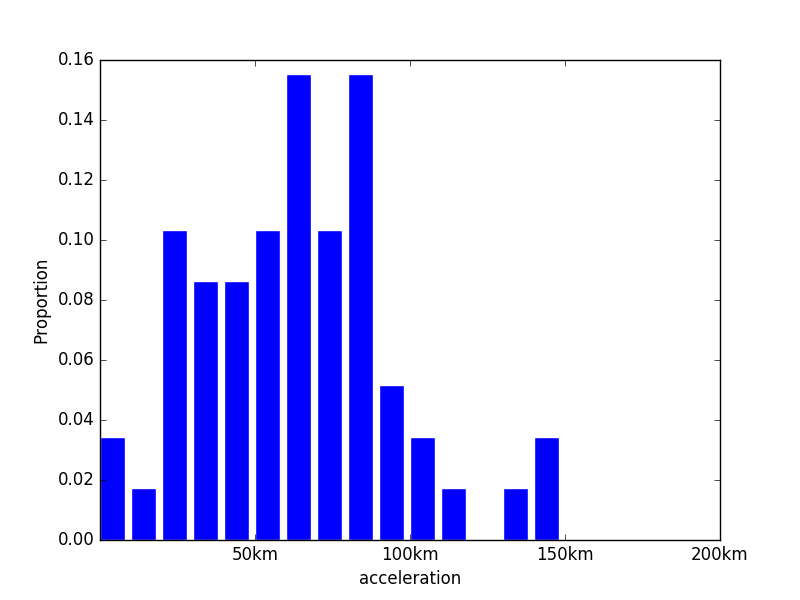
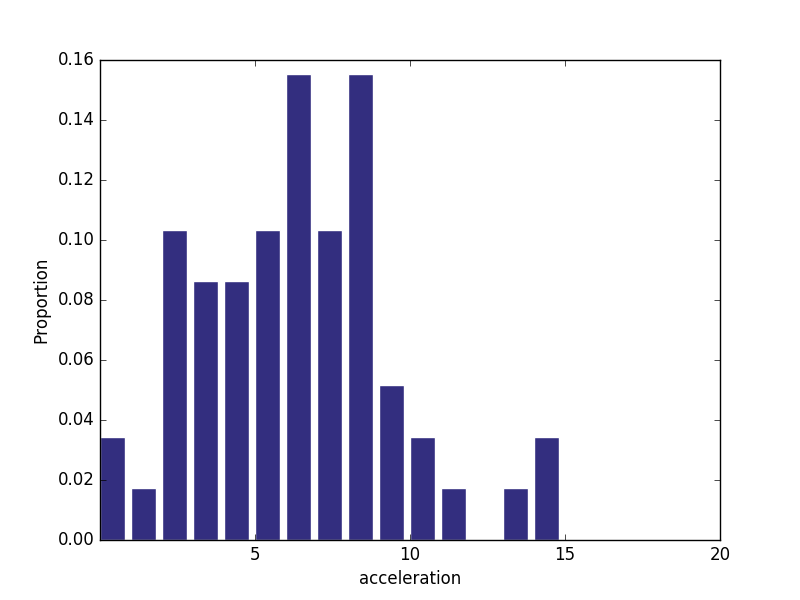
version 1.0

Changed region(s): [[0.125, 0.12, 0.5938, 0.93], [0.625, 0.72, 0.75, 0.93], [0.875, 0.9, 0.9375, 0.93]]

diff --git a/code/figure.py b/code/figure.py
@@ -4,15 +4,19 @@ import numpy as np
 def fig(l,name):
     n = 20
     X = np.arange(n)
-    Y = []
+    # Y = [0.54, 0.12,0.20,0.05,0.04,0.02,0.01,0.02,0,0,0,0,0,0,0,0,0,0,0,0]
     for i in range(len(l)):
         Y.append(float(l[i]))
     
-    plt.bar(X, Y, facecolor='blue', edgecolor='white')
+    plt.bar(X, Y, facecolor='#332E7F', edgecolor='white')
 
     plt.ylabel("Proportion")
     plt.xlabel(name)
-    plt.xticks((5,10,15,20), ('50km', '100km','150km','200km'))
+    plt.xticks((5,10,15,20), ('5', '10','15','20'))
 
-    plt.savefig('../result/' + name + '2.png', dpi=100)
+    plt.savefig('../result/' + name + '.png', dpi=100)
     plt.close()
+
+
+if __name__ == "__main__":
+	fig(1, 'acceleration')

diff --git a/code/features.py b/code/features.py
@@ -21,7 +21,7 @@ __all__ = [
 
 def show():
     # path = "../falsedata/13K.txt"
-    path = "../resultdata/extend_tmp.txt"
+    path = "../resultdata/extend.txt"
 
     l = [0 for x in range(0, 20)]
     rates = [0 for x in range(0, 20)]
